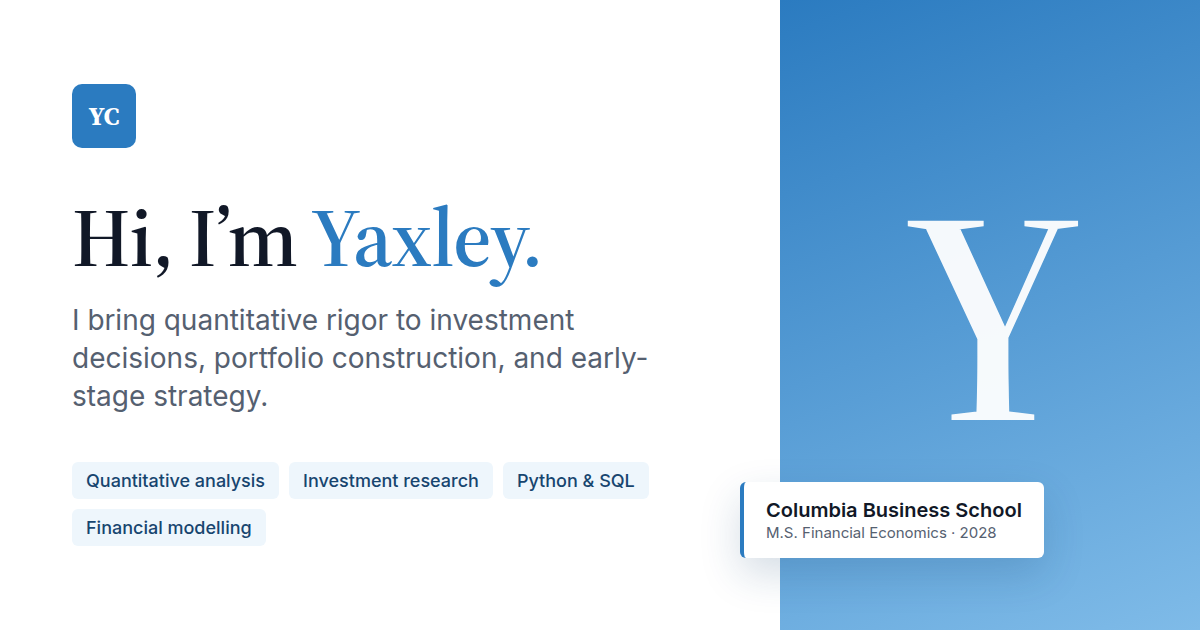
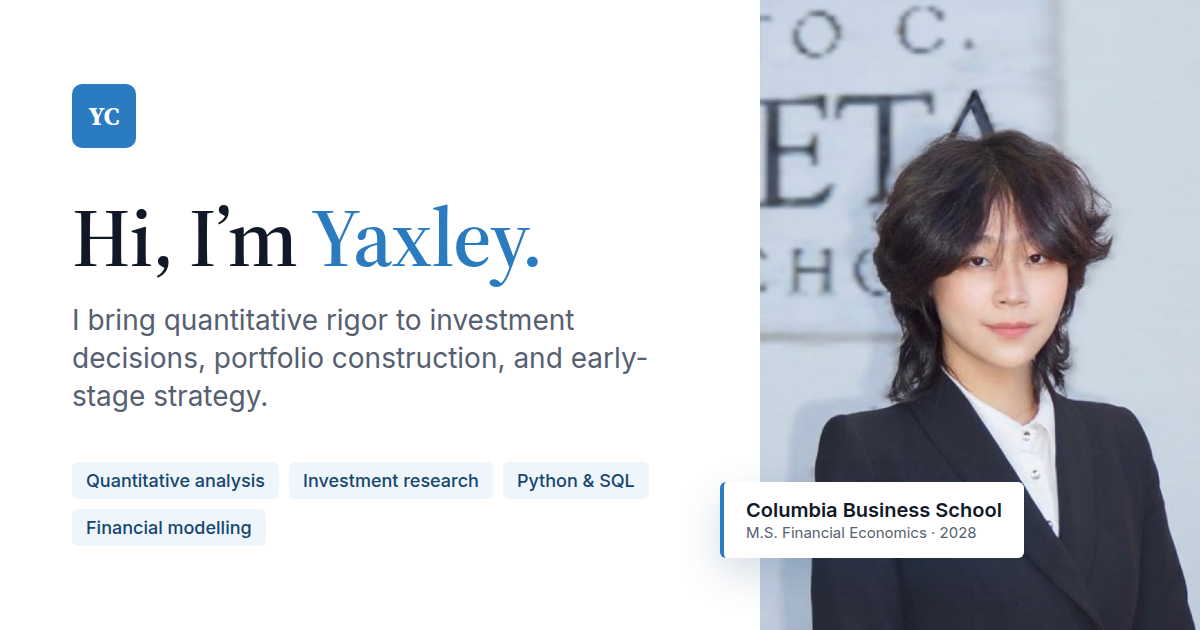
Add portrait photo and photo-based social preview

diff --git a/src/css/style.css b/src/css/style.css
@@ -102,7 +102,7 @@ h4 + .chips { margin-top: .4rem; margin-bottom: 1.25rem; }
 .rotate span { display: inline-block; transition: opacity .32s ease, transform .32s ease; }
 .rotate span.out { opacity: 0; transform: translateY(8px); }
 .hero-media { background: var(--grey-100); aspect-ratio: 4 / 5; overflow: hidden; }
-.hero-media img { width: 100%; height: 100%; object-fit: cover; }
+.hero-media img { width: 100%; height: 100%; object-fit: cover; object-position: center 30%; }
 .hero-media.monogram { display: grid; place-items: center; background: linear-gradient(160deg, var(--accent) 0%, #7fbbe8 100%); }
 .hero-media.monogram span { font-family: var(--font-display); font-weight: 600; font-size: clamp(5rem, 12vw, 10rem); color: #fff; letter-spacing: -.02em; opacity: .95; }
 .hero-visual { position: relative; }
